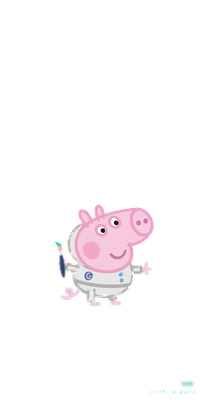
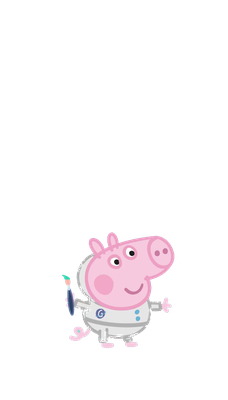
Crop watermark from peppa_5, fix character visibility on mobile

Changed region(s): [[0.2687, 0.51, 0.7761, 0.87], [0.8955, 0.93, 0.9851, 0.99]]

diff --git a/index.html b/index.html
@@ -391,6 +391,7 @@ footer a:hover { text-decoration: underline; }
 .section-header-row {
   position: relative;
   margin-bottom: 6px;
+  padding-right: 145px; /* always reserve space for the floating character */
 }
 .peppa-wrap {
   position: absolute;
@@ -405,6 +406,10 @@ footer a:hover { text-decoration: underline; }
   right: 115px;
   animation-delay: 0.4s;
 }
+/* two characters need more right padding */
+.section-header-row:has(.peppa-left) {
+  padding-right: 270px;
+}
 .peppa-char {
   width: 100%;
   height: 100%;
@@ -414,6 +419,23 @@ footer a:hover { text-decoration: underline; }
 @keyframes peppa-bounce {
   0%, 100% { transform: translateY(0) rotate(-3deg); }
   50%       { transform: translateY(-6px) rotate(3deg); }
+}
+@media (max-width: 480px) {
+  .peppa-wrap {
+    width: 90px;
+    height: 90px;
+    right: -5px;
+    bottom: -5px;
+  }
+  .peppa-wrap.peppa-left {
+    right: 80px;
+  }
+  .section-header-row {
+    padding-right: 100px;
+  }
+  .section-header-row:has(.peppa-left) {
+    padding-right: 185px;
+  }
 }
 
 /* ── REVEAL ── */
